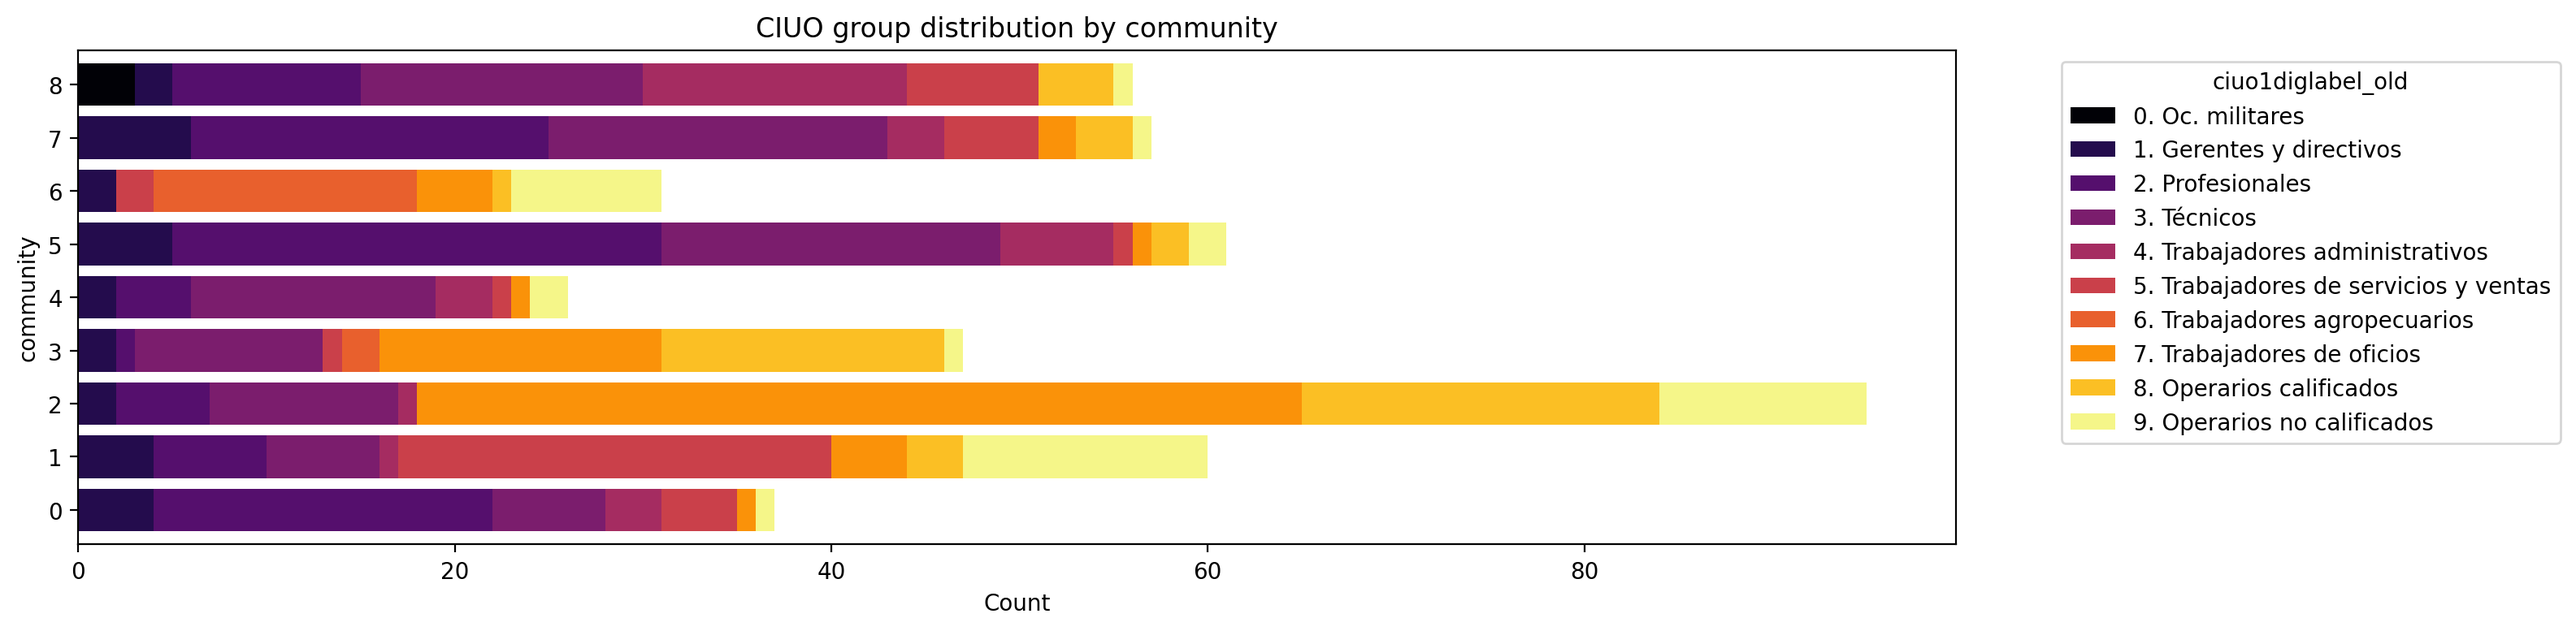
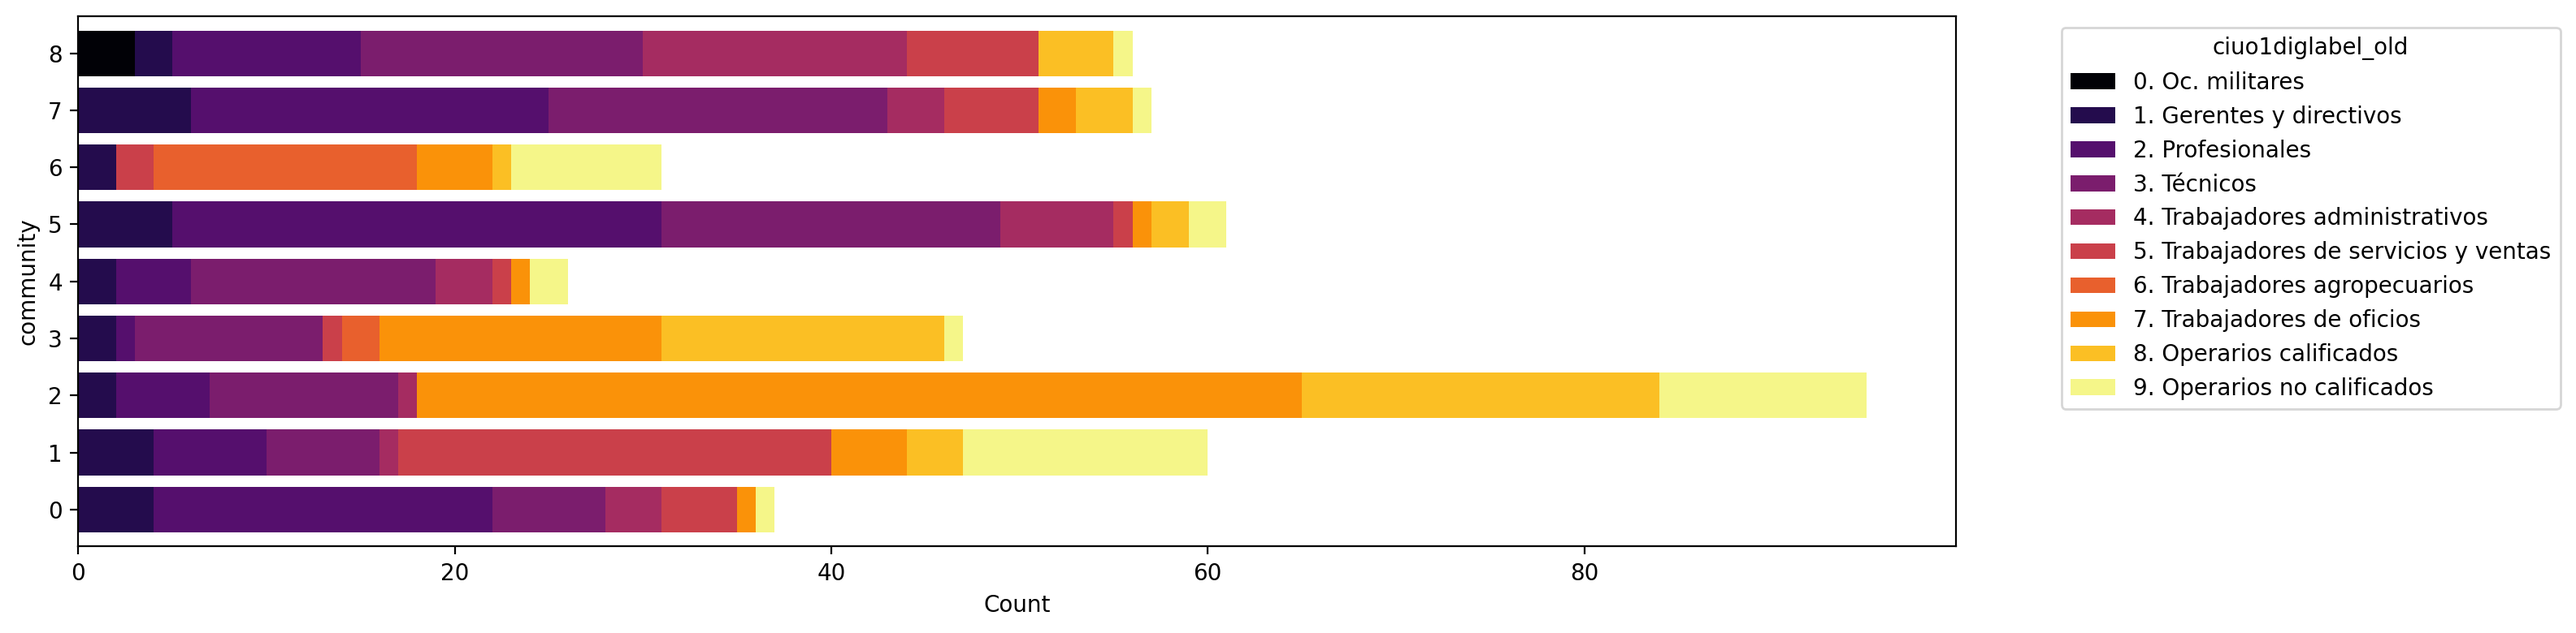
Remove titles

diff --git a/scripts/14_ciuo_edge_correlation.py b/scripts/14_ciuo_edge_correlation.py
@@ -2,88 +2,6 @@ from scripts import *
 import pandas as pd
 import networkx as nx
 import numpy as np
-import matplotlib.pyplot as plt
-import seaborn as sns
-from scipy import stats
-	
-
-def compute_and_plot_edge_correlation(G: nx.Graph, feature_map: dict, color_map: dict, title: str, output_path: Path, save: bool = True):
-	# Only keep nodes that have the feature
-	valid_nodes = set(feature_map.keys())
-	
-	x_vals_map = {}
-	y_vals_map = {u: [] for u in valid_nodes}
-	edge_weights = {u: [] for u in valid_nodes}
-	
-	for u, v, data in G.edges(data=True):
-		if u in valid_nodes and v in valid_nodes:
-			# Undirected, we add both (u,v) and (v,u) to make it symmetric
-			w = data.get("weight", 0.0)
-			
-			x_vals_map[u] = feature_map[u]
-			y_vals_map[u].append(feature_map[v])
-			edge_weights[u].append(w)
-			
-			x_vals_map[v] = feature_map[v]
-			y_vals_map[v].append(feature_map[u])
-			edge_weights[v].append(w)
-
-	x_vals = []
-	y_vals = []
-	for u in x_vals_map:
-		# For each node, we take its feature value and the average of its neighbors' feature values (weighted if desired)
-		if not y_vals_map[u]:
-			continue
-		x_vals.append(x_vals_map[u])
-		y_vals.append(np.average(y_vals_map[u], weights=edge_weights[u]))
-
-	if len(x_vals) < 2:
-		print(f"Warning: Not enough valid points to compute correlation for {title}.")
-		return
-
-	# Plot
-	plt.figure(figsize=(9, 8))
-	
-	# Scatter plot of node feature vs average neighbor feature, colored by community
-	sns.scatterplot(x=x_vals, y=y_vals, alpha=0.7, edgecolor="black", c=[color_map.get(u, "gray") for u in x_vals_map.keys()])
-	plt.plot([0, 100], [0, 100], "k--", label="y=x (Perfect Assortativity)", alpha=0.5)
-	
-	# Add a legend for the communities
-	unique_colors = set(color_map.values()) - {"gray"}  # Exclude gray if it's used for unassigned nodes
-	for color in COMMUNITY_COLORS_PALETTE:
-		if color in unique_colors:
-			plt.scatter([], [], c=color, label=f"Community {color}", edgecolor="black")
-	
-	# Add regression line on top to show trend
-	sns.regplot(x=x_vals, y=y_vals, scatter=False, color="red", line_kws={"linestyle": "--", "alpha": 0.5}, label="Trend", x_ci="ci")
-
-	# Compute correlation
-	pearson_r, p_value = stats.pearsonr(x_vals, y_vals)
-
-	print(f"--- {title} ---")
-	print(f"Assortativity Coefficient (Pearson r): {pearson_r:.4f} (p-value: {p_value:.4e})")
-	if pearson_r > 0 and p_value < 0.05:
-		print("Positive correlation: Gender homophily exists. Occupations with similar gender compositions cluster together.")
-	elif pearson_r < 0 and p_value < 0.05:
-		print("Negative correlation: Heterophily exists. Occupations connect primarily to those of opposite gender compositions.")
-	else:
-		print("Zero correlation: Gender is randomly distributed across the network structure.")
-
-	plt.title(f"{title}\nAssortativity (Pearson r): {pearson_r:.3f}")
-	plt.xlabel(f"% Women per node (Node i)")
-	plt.ylabel(f"% Women per weighted average of neighbors (Node i)")
-	#plt.xlim(0, 100)
-	#plt.ylim(0, 100)
-	sns.despine()
-	plt.legend()
-
-	# Generate Assortativity Scatter Plot (Node value vs Average Neighbor Value)
-	plt.tight_layout()
-	if save:
-		plt.savefig(output_path, bbox_inches="tight")
-		plt.close()
-	else:
-		plt.show()
 
 def main(enes_df=None, nodelist_ciuo_df=None):
 	if enes_df is None:
@@ -120,11 +38,11 @@ def main(enes_df=None, nodelist_ciuo_df=None):
 	)
 	
 	IMAGE_DIR.mkdir(parents=True, exist_ok=True)
-	compute_and_plot_edge_correlation(
+	pl.compute_and_plot_edge_correlation(
 		G=ciuo_projection,
 		feature_map=feature_map,
 		color_map=color_map,
-		title="Gender Correlation (CIUO Network)", 
+		title=None, 
 		output_path=IMAGE_DIR / "14_ciuo_edge_correlation.png", 
 		save=True
 	)

diff --git a/src/plotting.py b/src/plotting.py
@@ -1065,3 +1065,84 @@ def plot_alpha_sensitivity(
 		plt.close()
 	else:
 		plt.show()
+
+
+from scipy import stats
+def compute_and_plot_edge_correlation(G: nx.Graph, feature_map: dict, color_map: dict, title: str, output_path: Path, save: bool = True):
+	# Only keep nodes that have the feature
+	valid_nodes = set(feature_map.keys())
+	
+	x_vals_map = {}
+	y_vals_map = {u: [] for u in valid_nodes}
+	edge_weights = {u: [] for u in valid_nodes}
+	
+	for u, v, data in G.edges(data=True):
+		if u in valid_nodes and v in valid_nodes:
+			# Undirected, we add both (u,v) and (v,u) to make it symmetric
+			w = data.get("weight", 0.0)
+			
+			x_vals_map[u] = feature_map[u]
+			y_vals_map[u].append(feature_map[v])
+			edge_weights[u].append(w)
+			
+			x_vals_map[v] = feature_map[v]
+			y_vals_map[v].append(feature_map[u])
+			edge_weights[v].append(w)
+
+	x_vals = []
+	y_vals = []
+	plotted_nodes = []
+	for u in x_vals_map:
+		# For each node, we take its feature value and the average of its neighbors' feature values (weighted if desired)
+		if not y_vals_map[u]:
+			continue
+		x_vals.append(x_vals_map[u])
+		y_vals.append(np.average(y_vals_map[u], weights=edge_weights[u]))
+		plotted_nodes.append(u)
+
+	if len(x_vals) < 2:
+		print(f"Warning: Not enough valid points to compute correlation for {title}.")
+		return
+
+	# Plot
+	plt.figure(figsize=(9, 8))
+	
+	# Scatter plot of node feature vs average neighbor feature, colored by community
+	sns.scatterplot(x=x_vals, y=y_vals, alpha=0.7, edgecolor="black", c=[color_map.get(u, "gray") for u in plotted_nodes])
+	plt.plot([0, 100], [0, 100], "k--", label="y=x (Perfect Assortativity)", alpha=0.5)
+	
+	# Add a legend for the communities
+	unique_colors = sorted(set(color_map.get(u, "gray") for u in plotted_nodes) - {"gray"})
+	for color in unique_colors:
+		plt.scatter([], [], c=color, label=f"Community {color}", edgecolor="black")
+	
+	# Add regression line on top to show trend
+	sns.regplot(x=x_vals, y=y_vals, scatter=False, color="red", line_kws={"linestyle": "--", "alpha": 0.5}, label="Trend")
+
+	# Compute correlation
+	pearson_r, p_value = stats.pearsonr(x_vals, y_vals)
+
+	print(f"--- {title} ---")
+	print(f"Assortativity Coefficient (Pearson r): {pearson_r:.4f} (p-value: {p_value:.4e})")
+	if pearson_r > 0 and p_value < 0.05:
+		print("Positive correlation: Gender homophily exists. Occupations with similar gender compositions cluster together.")
+	elif pearson_r < 0 and p_value < 0.05:
+		print("Negative correlation: Heterophily exists. Occupations connect primarily to those of opposite gender compositions.")
+	else:
+		print("Zero correlation: Gender is randomly distributed across the network structure.")
+
+	plt.title(f"{title}\nAssortativity (Pearson r): {pearson_r:.4f} (p={p_value:.4e})" if title else None)
+	plt.xlabel(f"% Women per node (Node i)")
+	plt.ylabel(f"% Women per weighted average of neighbors (Node i)")
+	#plt.xlim(0, 100)
+	#plt.ylim(0, 100)
+	sns.despine()
+	plt.legend()
+
+	# Generate Assortativity Scatter Plot (Node value vs Average Neighbor Value)
+	plt.tight_layout()
+	if save:
+		plt.savefig(output_path, bbox_inches="tight")
+		plt.close()
+	else:
+		plt.show()

diff --git a/scripts/06_ciuo_projection_custom.py b/scripts/06_ciuo_projection_custom.py
@@ -48,7 +48,7 @@ def main(enes_df=None, nodelist_ciuo_df=None):
 		ciuo_projection,
 		group_map=group_map,
 		group_color_map=group_color_map,
-		title="CIUO projected network with groups",
+		title=None,
 		legend_title="Categories",
 		output_path=output,
 		save=True,
@@ -72,10 +72,7 @@ def main(enes_df=None, nodelist_ciuo_df=None):
 		ciuo_projection,
 		group_map=communities_ciuo,
 		group_color_map=community_colors,
-		title=(
-			"CIUO network - Louvain communities\n"
-			f"Modularity: {modularity_ciuo:.4f} | Communities: {num_communities} | Resolution: {best_resolution:.3f}"
-		),
+		title=None,
 		legend_title="Communities",
 		output_path=community_output,
 		save=True,
@@ -105,7 +102,7 @@ def main(enes_df=None, nodelist_ciuo_df=None):
 		nodelist_ciuo_df,
 		group_col=group_col,
 		community_map=communities_ciuo,
-		title="CIUO group distribution by community",
+		title=None,
 		output_path=stacked_output,
 		group_color_map=group_color_map,
 		save=True,
@@ -124,7 +121,7 @@ def main(enes_df=None, nodelist_ciuo_df=None):
 		ciuo_projection,
 		pos=pos,
 		node_values=female_map,
-		title="CIUO network - % Women per node",
+		title=None,
 		colorbar_label="% Women",
 		cmap="coolwarm",
 		output_path=female_output,
@@ -137,7 +134,7 @@ def main(enes_df=None, nodelist_ciuo_df=None):
 		ciuo_projection,
 		pos=pos,
 		node_values=age_map,
-		title="CIUO network - Mean age per node",
+		title=None,
 		colorbar_label="Mean age (years)",
 		cmap="Dark2",
 		output_path=age_output,
@@ -151,7 +148,7 @@ def main(enes_df=None, nodelist_ciuo_df=None):
 			ciuo_projection,
 			pos=pos,
 			node_values=pub_sector_map,
-			title="CIUO network - % Public Sector per node",
+			title=None,
 			colorbar_label="% Public Sector",
 			cmap="PRGn",
 			output_path=pub_sector_output,

diff --git a/scripts/00_prepare_data.py b/scripts/00_prepare_data.py
@@ -64,7 +64,7 @@ def main():
 			df=datasets["caes_nodes"],
 			label_col="caeslabel",
 			val_col="n_obs",
-			title="Top 15 Economic Branches by Total Workers",
+			title=None,
 			xlabel="Total Workers",
 			output_path=IMAGE_DIR / "00_top_caes_workers.png",
 			top_n=15,
@@ -76,7 +76,7 @@ def main():
 			df=datasets["ciuo_nodes"],
 			label_col="ciuolabel",
 			val_col="n_obs",
-			title="Top 15 Occupations by Total Workers",
+			title=None,
 			xlabel="Total Workers",
 			output_path=IMAGE_DIR / "00_top_ciuo_workers.png",
 			top_n=15,

diff --git a/scripts/02_bipartite.py b/scripts/02_bipartite.py
@@ -88,7 +88,7 @@ def main(enes_df=None, nodelist_caes_df=None, nodelist_ciuo_df=None):
 		label_map=label_map_groups,
 		top_n=None,
 		output_path=colored_output,
-		title="Bipartite network with CAES and CIUO groups",
+		title=None,
 		save=True,
 		figsize=(10, 8)
 	)
